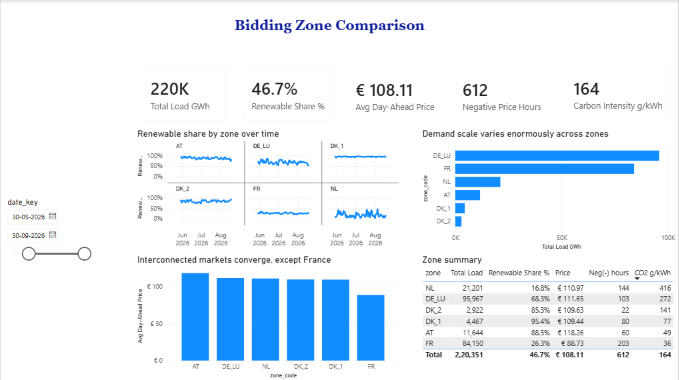
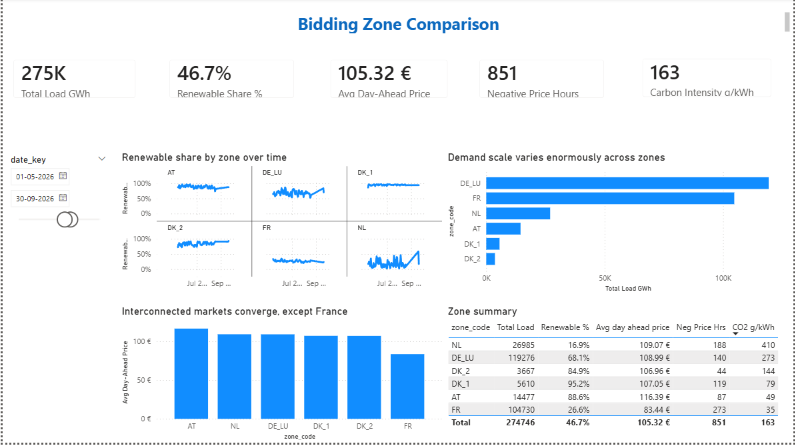
added star schema marts and power bi semantic layer

diff --git a/README.md b/README.md
@@ -131,16 +131,16 @@ twelve minutes with mostly failures to 42 seconds with none.
 
 **The conventional peak window no longer contains the peak.** European markets
 define peak as 08:00 to 20:00 CET, but the day-ahead price now peaks in the
-evening ramp, after solar drops off. Measured over three months, market off-peak
-prices exceed market peak prices in DE_LU. The measures follow the market
-definition and the report states the discrepancy rather than redefining the window
-to make the numbers tidy.
+evening ramp, after solar drops off. Measured over four months, market off-peak
+prices exceed market peak prices by roughly €69/MWh. The measures follow the
+market definition and the report states the discrepancy rather than redefining
+the window to make the numbers tidy.
 
 **Renewable share is a poor proxy for emissions.** France runs the lowest
-renewable share of the six zones at 26% and the lowest carbon intensity at
-36 g/kWh, because nuclear is not renewable but is nearly carbon free. The
-Netherlands sits at a similar renewable share with 416 g/kWh. Any report ranking
-zones on renewable share alone would invert the emissions picture.
+renewable share of the six zones at 27% and the lowest carbon intensity at
+35 g/kWh, because nuclear is not renewable but is nearly carbon free. The
+Netherlands sits at 17% renewable with 410 g/kWh. Any report ranking zones on
+renewable share alone would invert the emissions picture.
 
 ## Local setup
 
